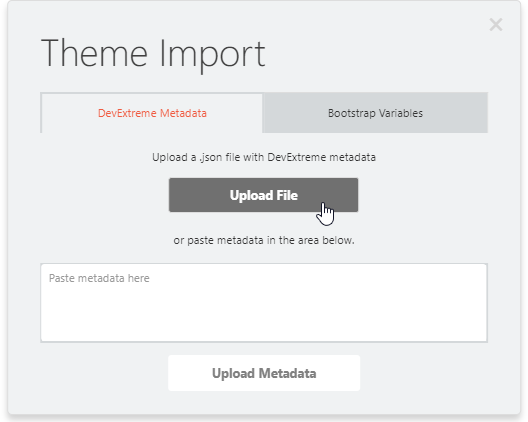
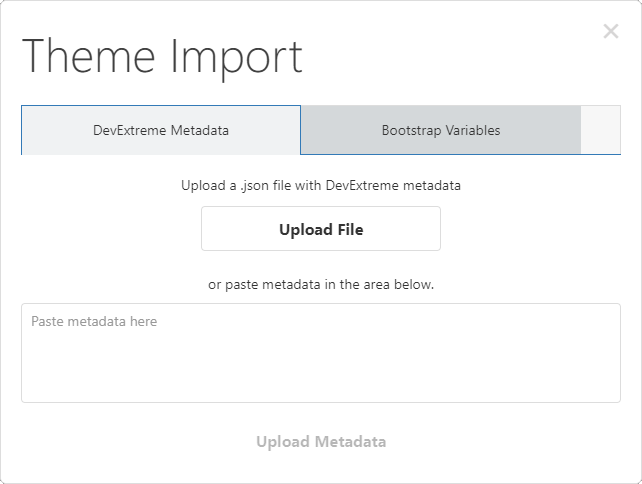
ThemeBuilder: update the Import/Export dialog T898648

Changed region(s): [[0.0, 0.0, 1.0, 1.0], [0.3939, 0.8626, 0.6061, 0.9242], [0.5758, 0.2464, 0.8182, 0.2773]]

diff --git a/concepts/60 Themes and Styles/08 ThemeBuilder/40 Export the Resulting Theme.md b/concepts/60 Themes and Styles/08 ThemeBuilder/40 Export the Resulting Theme.md
@@ -1,11 +1,17 @@
-Click **Export** to open the **Theme Export** popup dialog. In this dialog, enter the color scheme name. If you want to export the theme as a [color swatch](/concepts/60%20Themes%20and%20Styles/05%20Predefined%20Themes/70%20Color%20Swatches.md '/Documentation/Guide/Themes_and_Styles/Predefined_Themes/#Color_Swatches'), check the check box as well.
+Click **Export** to open the **Theme Export** popup dialog. In this dialog, enter the color scheme name. If you want to export the theme as a [color swatch](/concepts/60%20Themes%20and%20Styles/05%20Predefined%20Themes/70%20Color%20Swatches.md '/Documentation/Guide/Themes_and_Styles/Predefined_Themes/#Color_Swatches'), check the check box. You can also remove links to external resources, such as fonts.
 
-Click **Save to File** to save a file named `dx.[base-theme-name].[color-scheme-name].css` (for example, `dx.material.brown.css`) on your computer. Alternatively, you can copy the CSS from the text area at the bottom:
+![DevExtreme ThemeBuilder UI: Theme Export popup dialog, Enter Name](/images/Common/ThemeBuilder/themebuilder-themeexport-name.png)
 
-![DevExtreme ThemeBuilder UI: Theme Export popup dialog](/images/Common/ThemeBuilder/themebuilder-themeexport-css.png)
+On the next step, select the components for your theme to support.
 
-Your custom theme uses [icons](/concepts/60%20Themes%20and%20Styles/30%20Icons/00%20Icons.md '/Documentation/Guide/Themes_and_Styles/Icons/') and fonts. They should be located next to the theme. When using npm, you can find the `icons` and `fonts` folders in `node_modules/devextreme/dist/css`. In other cases, these folders are in the directory with predefined themes. Copy them to the directory that contains your theme.
+![DevExtreme ThemeBuilder UI: Theme Export popup dialog, Select Widgets](/images/Common/ThemeBuilder/themebuilder-themeexport-widgets.png)
+
+Click **Download CSS File** to save a file named `dx.[base-theme-name].[color-scheme-name].css` (for example, `dx.material.brown.css`) on your computer. Alternatively, you can download the archive with a CSS file and icons or copy the CSS.
+
+![DevExtreme ThemeBuilder UI: Theme Export popup dialog, Choose Format](/images/Common/ThemeBuilder/themebuilder-themeexport-format.png)
+
+Your custom theme uses [icons](/concepts/60%20Themes%20and%20Styles/30%20Icons/00%20Icons.md '/Documentation/Guide/Themes_and_Styles/Icons/') and fonts. They should be located next to the theme. When you use npm, you can find the `icons` and `fonts` folders in `node_modules/devextreme/dist/css`. In other cases, these folders are in the directory with predefined themes. Copy them to the directory that contains your theme.
 
 Finally, [register the exported theme](/concepts/60%20Themes%20and%20Styles/05%20Predefined%20Themes/50%20Apply%20a%20Theme.md '/Documentation/Guide/Themes_and_Styles/Predefined_Themes/#Apply_a_Theme'). If you exported a color swatch, apply it as described in [Color Swatches](/concepts/60%20Themes%20and%20Styles/05%20Predefined%20Themes/70%20Color%20Swatches.md '/Documentation/Guide/Themes_and_Styles/Predefined_Themes/#Color_Swatches').
 
-[note] We periodically remove and remap unused constants to optimize our predefined themes. This can cause compatibility issues when you upgrade custom themes. We recommend saving your theme's metadata to enable you to fix these issues. Refer to the [Postpone Customization](/concepts/60%20Themes%20and%20Styles/08%20ThemeBuilder/20%20Postpone%20Customization.md '/Documentation/Guide/Themes_and_Styles/ThemeBuilder/#Postpone_Customization') topic for more information.
+[note] We periodically remove and remap unused constants to optimize our predefined themes. This can cause compatibility issues when you upgrade custom themes. We recommend that you save your theme's metadata to enable you to fix these issues. Refer to the [Postpone Customization](/concepts/60%20Themes%20and%20Styles/08%20ThemeBuilder/20%20Postpone%20Customization.md '/Documentation/Guide/Themes_and_Styles/ThemeBuilder/#Postpone_Customization') topic for more information.

diff --git a/concepts/60 Themes and Styles/08 ThemeBuilder/20 Postpone Customization.md b/concepts/60 Themes and Styles/08 ThemeBuilder/20 Postpone Customization.md
@@ -1,7 +1,13 @@
-To return to customization later, save the theme's metadata beforehand. Click **Export** on the toolbar to open the **Theme Export** popup dialog. In this dialog, select the **Export Metadata** tab and click **Save to File**. A `.json` file with metadata is saved on your computer. Alternatively, you can copy the metadata from the text area at the bottom:
+To return to customization later, save the theme's metadata beforehand. Click **Export** on the toolbar to open the **Theme Export** popup dialog. In this dialog, enter the color scheme name.
 
-![DevExtreme ThemeBuilder UI: Theme Export popup dialog](/images/Common/ThemeBuilder/themebuilder-themeexport.png)
+![DevExtreme ThemeBuilder UI: Theme Export popup dialog, Enter Name](/images/Common/ThemeBuilder/themebuilder-themeexport-name.png)
 
-To continue customization, click **Import** on the toolbar. In the appeared **Theme Import** dialog, click **Upload File** and select the `.json` file that you exported previously. If you have copied the metadata rather than exported it as a `.json` file, paste it in the text area and click **Upload Metadata**:
+Go to the **Choose Format** step and click the **Download Metadata File** button. 
+
+![DevExtreme ThemeBuilder UI: Theme Export popup dialog, Choose Format](/images/Common/ThemeBuilder/themebuilder-themeexport-format.png)
+
+A `.json` file with metadata is saved on your computer. Alternatively, you can **Copy Metadata**.
+
+To continue customization, click **Import** on the toolbar. In the appeared **Theme Import** dialog, click **Upload File** and select the `.json` file that you exported previously. If you copied the metadata rather than exported it as a `.json` file, paste it in the text area and click **Upload Metadata**:
 
 ![DevExtreme ThemeBuilder UI: Theme Import popup dialog](/images/Common/ThemeBuilder/themebuilder-themeimport.png)

diff --git a/concepts/60 Themes and Styles/05 Predefined Themes/70 Color Swatches.md b/concepts/60 Themes and Styles/05 Predefined Themes/70 Color Swatches.md
@@ -29,9 +29,13 @@ You can generate color swatches with the DevExtreme CLI or ThemeBuilder UI:
 
 * **[ThemeBuilder UI](/concepts/60%20Themes%20and%20Styles/08%20ThemeBuilder '/Documentation/Guide/Themes_and_Styles/ThemeBuilder/')**       
 
-    Click **Export** on the toolbar to open the **Theme Export** popup dialog. Enter the color swatch's name ("brown" in the following image), check the **Save as a color swatch** checkbox, and click **Save to File**:
+    Click **Export** on the toolbar to open the **Theme Export** popup dialog. Enter the color swatch's name, check the **Save as a color swatch** checkbox, and proceed to the last step.
 
-    ![DevExtreme ThemeBuilder UI: Export a color swatch](/images/Common/ThemeBuilder/themebuilder-themeexport-css.png)
+    ![DevExtreme ThemeBuilder UI: Theme Export popup dialog, Enter Name](/images/Common/ThemeBuilder/themebuilder-themeexport-name.png)
+
+    Click **Download CSS File** to save a CSS file on your computer.
+
+    ![DevExtreme ThemeBuilder UI: Theme Export popup dialog, Choose Format](/images/Common/ThemeBuilder/themebuilder-themeexport-format.png)
 
     Move the resulting CSS file to the application folder, [register it](/concepts/60%20Themes%20and%20Styles/05%20Predefined%20Themes/50%20Apply%20a%20Theme.md '/Documentation/Guide/Themes_and_Styles/Predefined_Themes/#Apply_a_Theme'), and add the swatch class to a page element.
 

diff --git a/concepts/Common/Migrate to the New Version/20 Upgrade Themes Created in ThemeBuilder.md b/concepts/Common/Migrate to the New Version/20 Upgrade Themes Created in ThemeBuilder.md
@@ -4,6 +4,6 @@ Follow the steps below to upgrade a theme created in the ThemeBuilder if you [sa
 
 1. On the view, click **Upload File** and select the `.json` file that you exported previously. If you copied the metadata rather than exported it as a `.json` file, paste it in the text area and click **Upload Metadata**:
 
-    ![DevExtreme ThemeBuilder UI: Theme Import view](/images/Common/ThemeBuilder/themebuilder-themeimport-view.png)
+    ![DevExtreme ThemeBuilder UI: Theme Import popup dialog](/images/Common/ThemeBuilder/themebuilder-themeimport.png)
 
 1. Check that the metadata is applied, perform additional customizations if required, and [export the upgraded theme](/concepts/60%20Themes%20and%20Styles/08%20ThemeBuilder/40%20Export%20the%20Resulting%20Theme.md '/Documentation/Guide/Themes_and_Styles/ThemeBuilder/#Export_the_Resulting_Theme').
